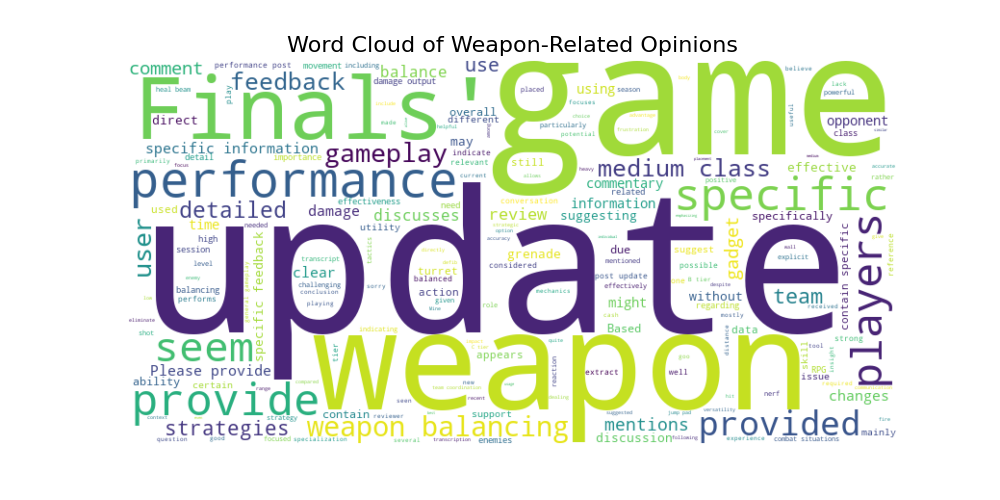
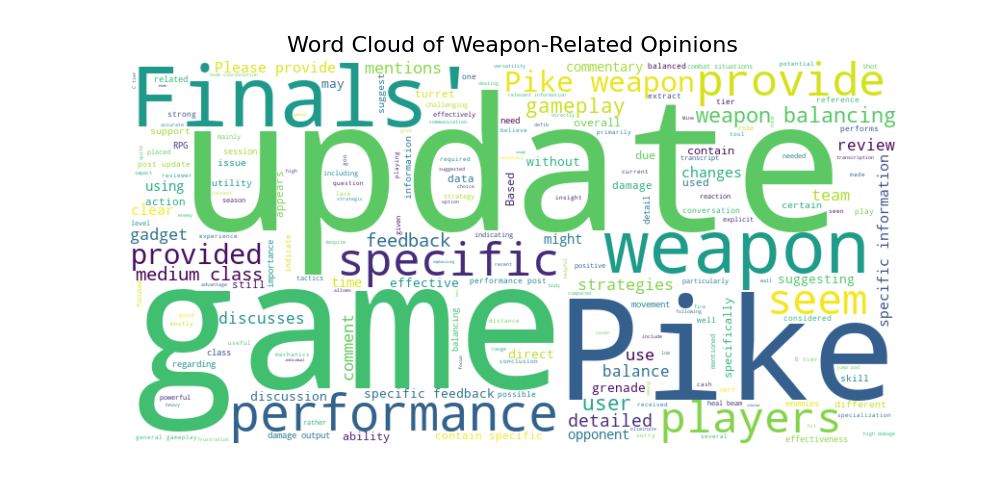
changed word filtering to not exclude weapon name oops...

diff --git a/FinalProject/src/analysis/WordCloudSentimentAnalysis.py b/FinalProject/src/analysis/WordCloudSentimentAnalysis.py
@@ -8,7 +8,7 @@ import os
 
 nltk.download('vader_lexicon')
 
-weaponName = "pike"
+weaponName = "cl40"
 # post_update or pre_update
 updateVersion = "post_update"
 outputDir = f"output/{updateVersion}/{weaponName}"
@@ -61,7 +61,7 @@ def main():
     print(f"Filtered opinions saved to {filteredCsvPath}")
 
     allFilteredText = " ".join(filteredOpinions.dropna())
-    stopwordsToExclude = {"opinion", "analysis", "player", "finals", "the", "a", "is", "and", f"{weaponName}", "mention", "opinions", "text", "please provide specific information", "please provide", "speaker"}
+    stopwordsToExclude = {"opinion", "analysis", "player", "finals", "the", "a", "is", "and", "mention", "opinions", "text", "please provide specific information", "please provide", "speaker"}
     print("Generating word cloud for filtered opinions...")
 
     wordcloudPath = os.path.join(outputDir, f"{updateVersion}_{weaponName}_word_cloud.png")
